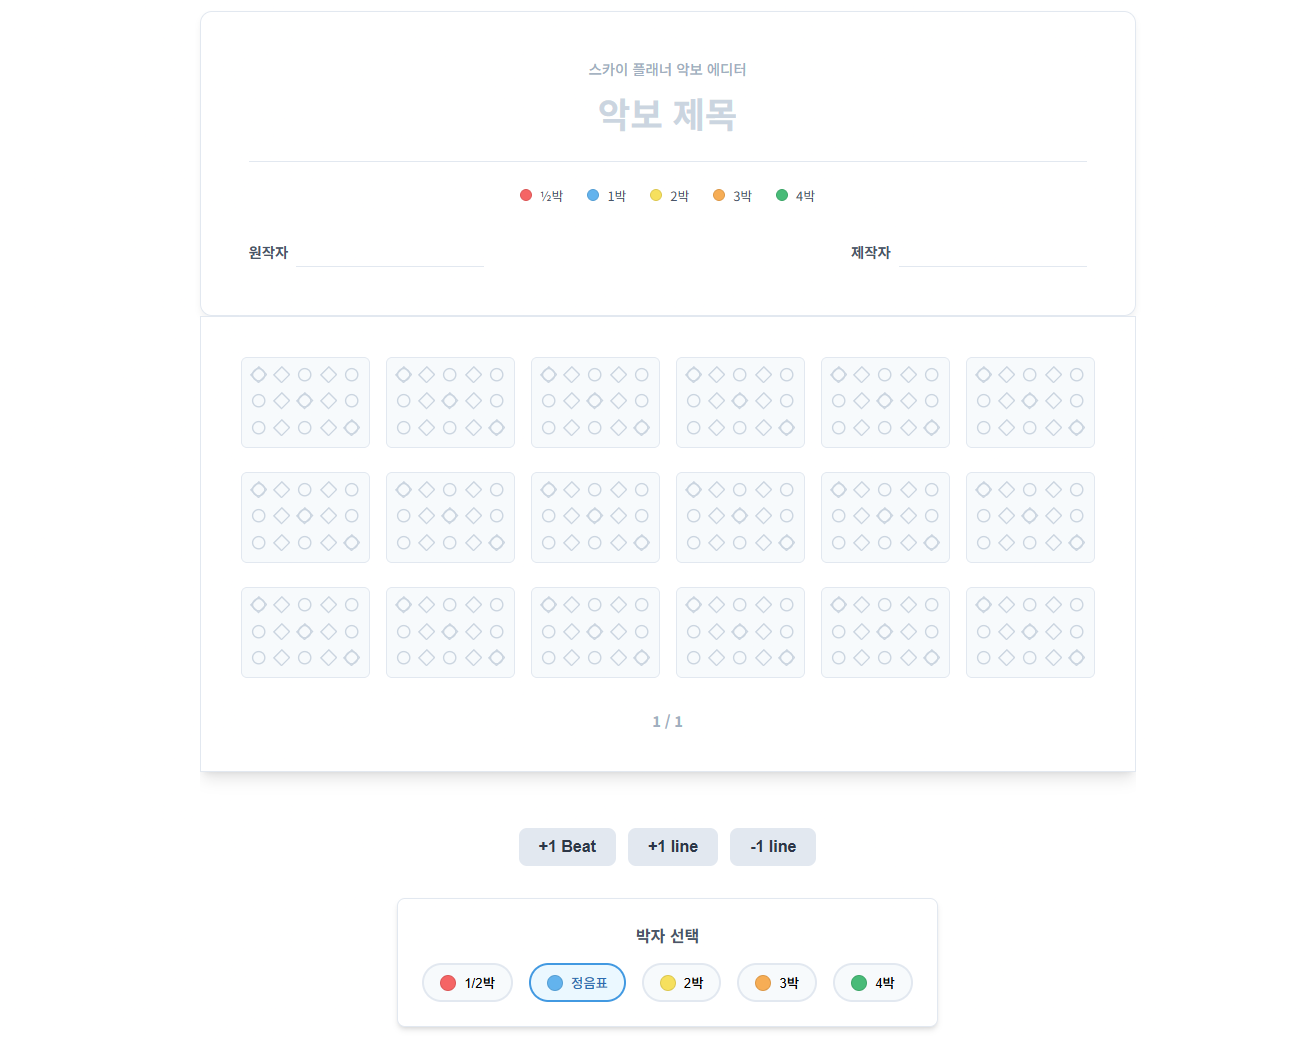
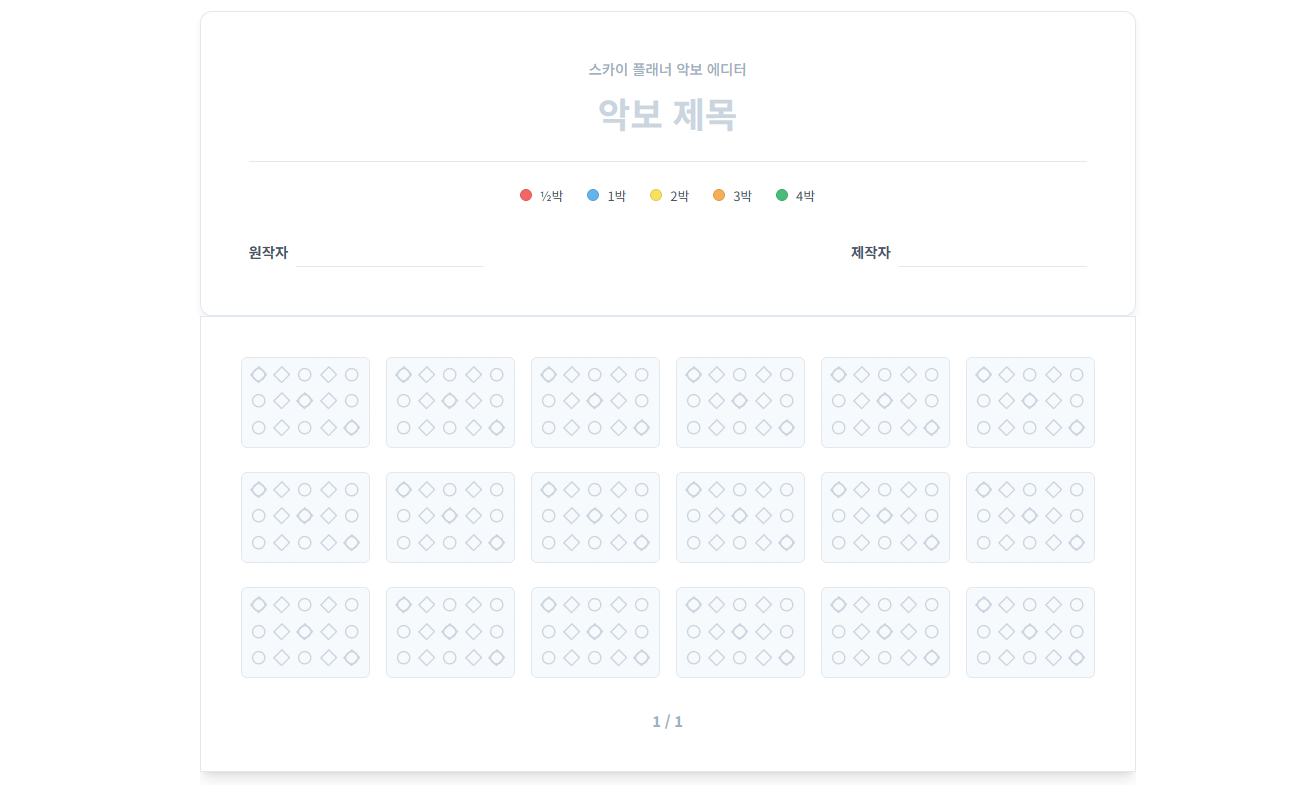
Sky Planner O2O: fixed height so the two shots line up (top-aligned crop)

diff --git a/src/app/[locale]/work/sky-planner/page.tsx b/src/app/[locale]/work/sky-planner/page.tsx
@@ -989,9 +989,19 @@ export default async function SkyPlannerPage({
             </div>
           </div>
 
-          <div className="mt-6 grid grid-cols-1 items-start gap-3 sm:grid-cols-2">
-            <Placeholder variant="alt" label={c.o2o.shot1} img={SHOTS.o2o1} className="" />
-            <Placeholder variant="alt" label={c.o2o.shot2} img={SHOTS.o2o2} className="" />
+          <div className="mt-6 grid grid-cols-1 gap-3 sm:grid-cols-2">
+            <Placeholder
+              variant="alt"
+              label={c.o2o.shot1}
+              img={SHOTS.o2o1}
+              className="h-[clamp(220px,30vw,320px)]"
+            />
+            <Placeholder
+              variant="alt"
+              label={c.o2o.shot2}
+              img={SHOTS.o2o2}
+              className="h-[clamp(220px,30vw,320px)]"
+            />
           </div>
         </div>
       </section>
